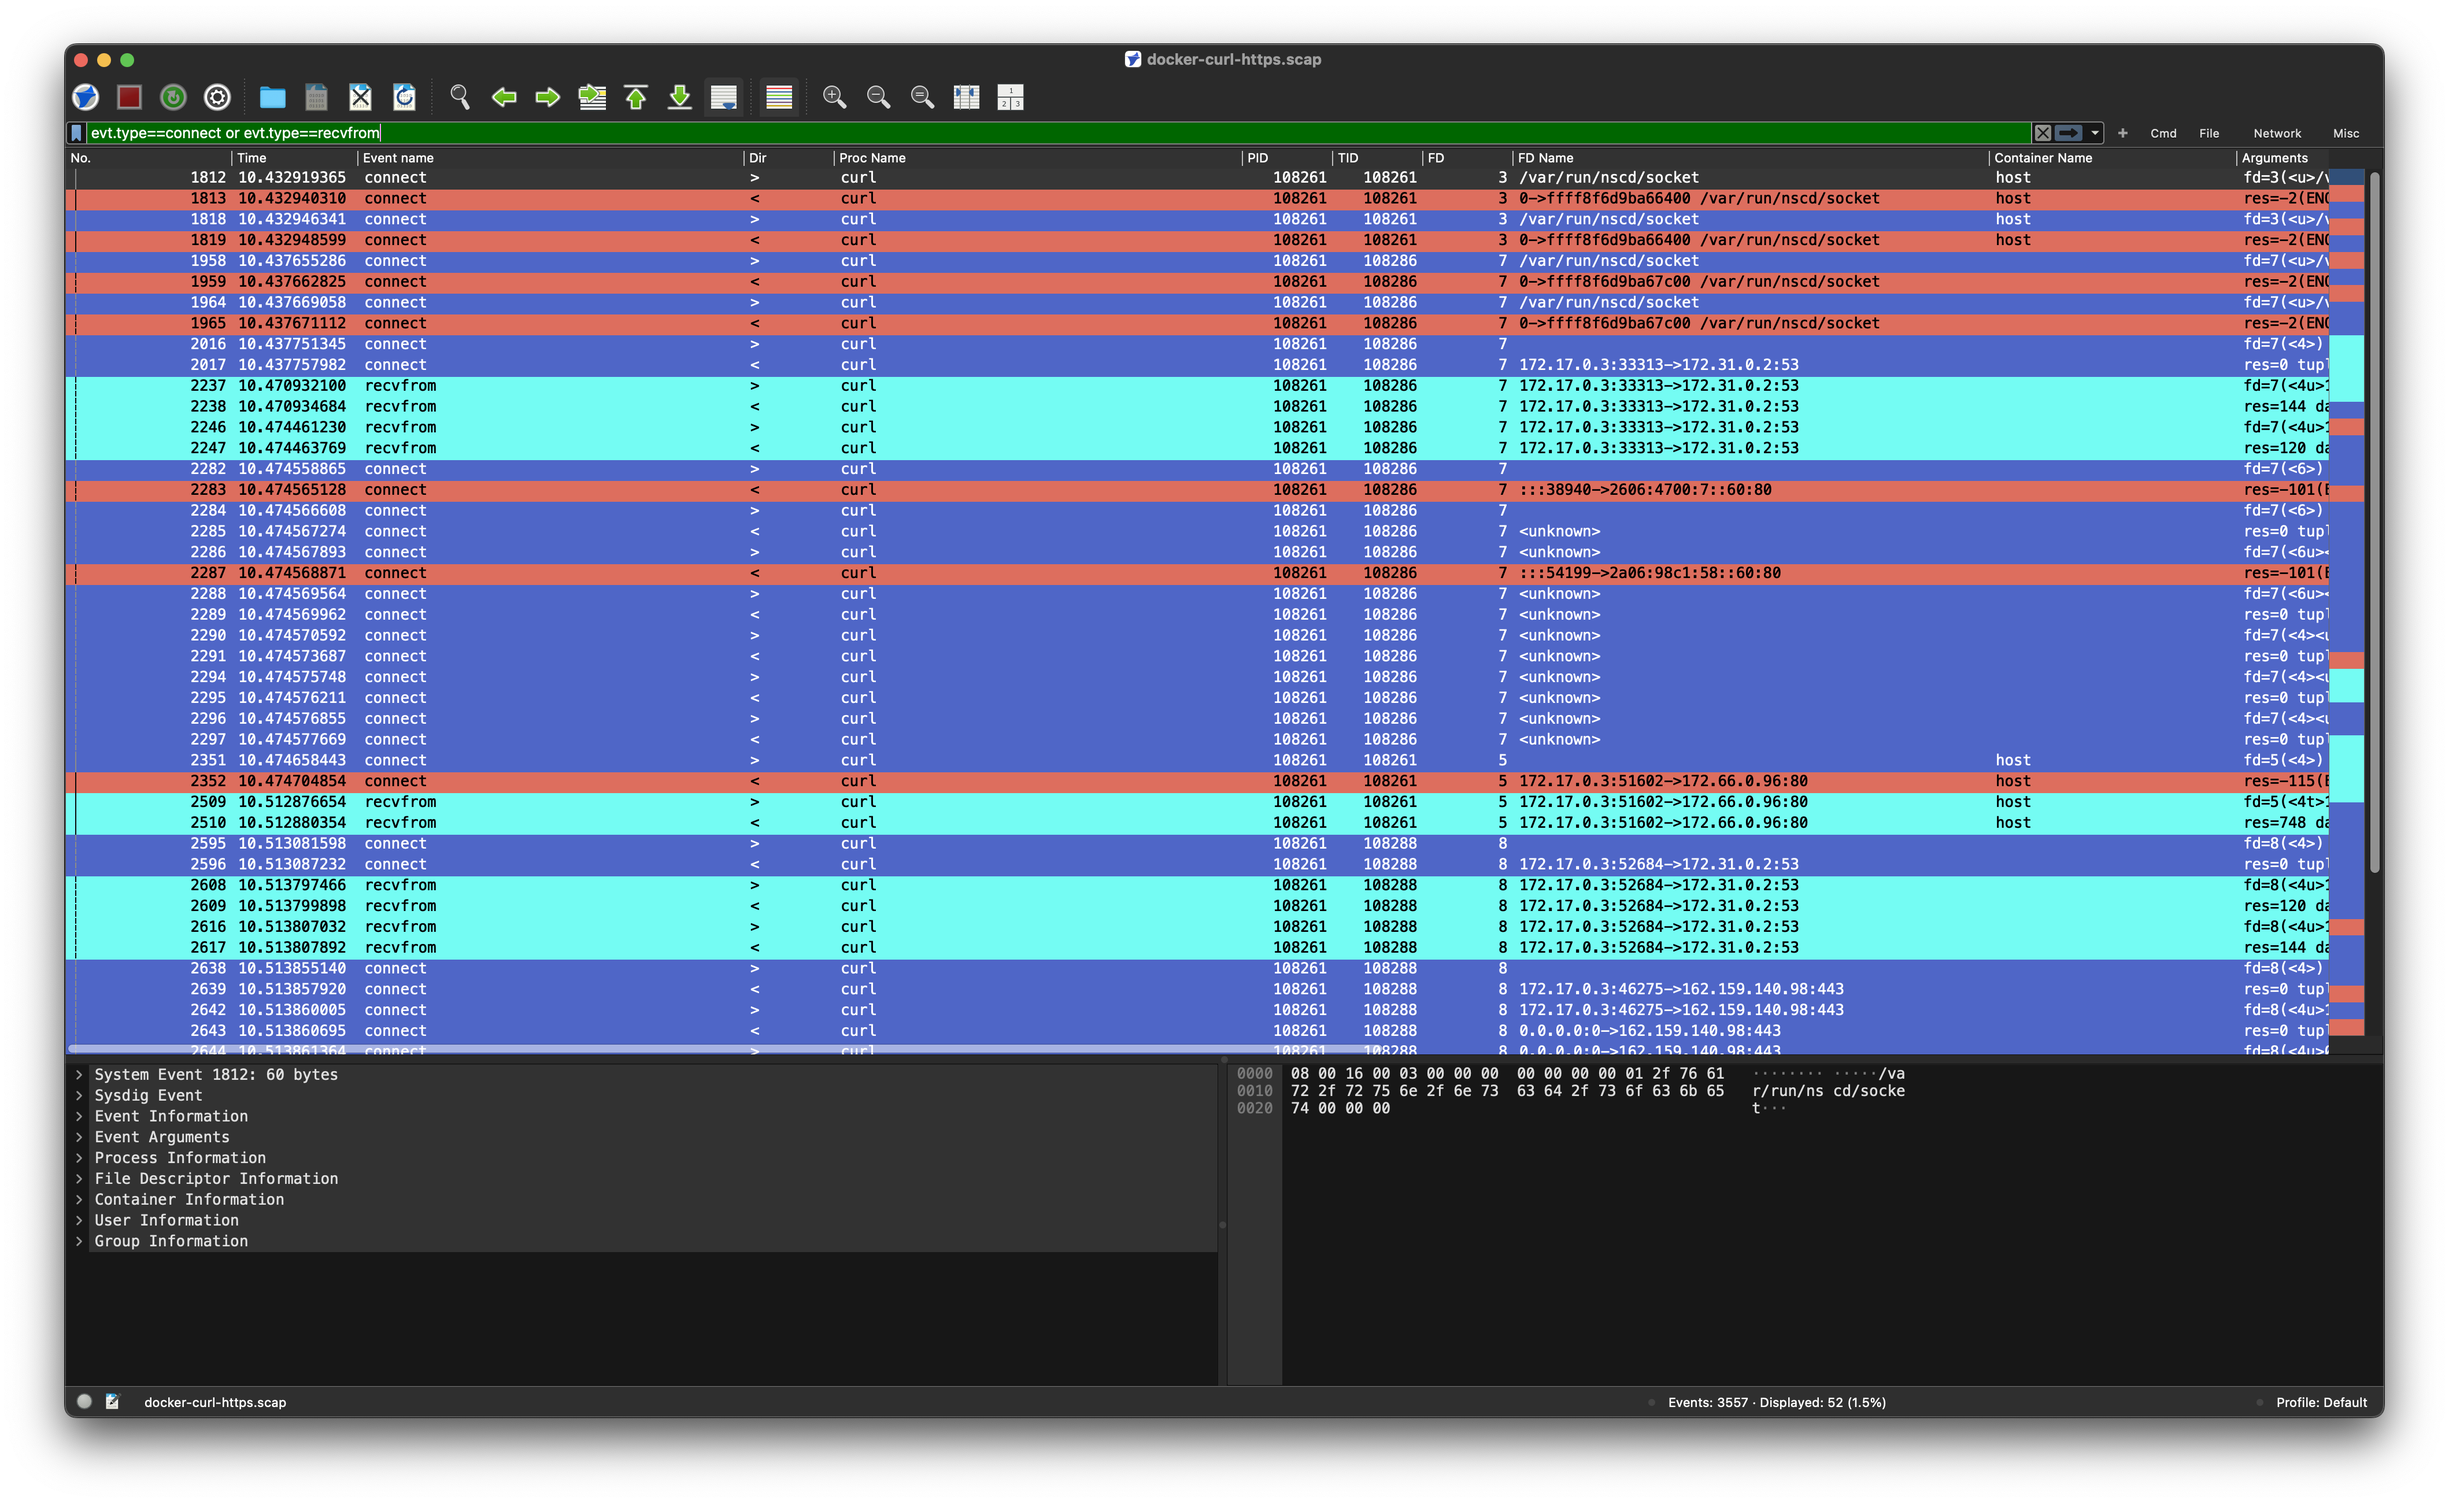
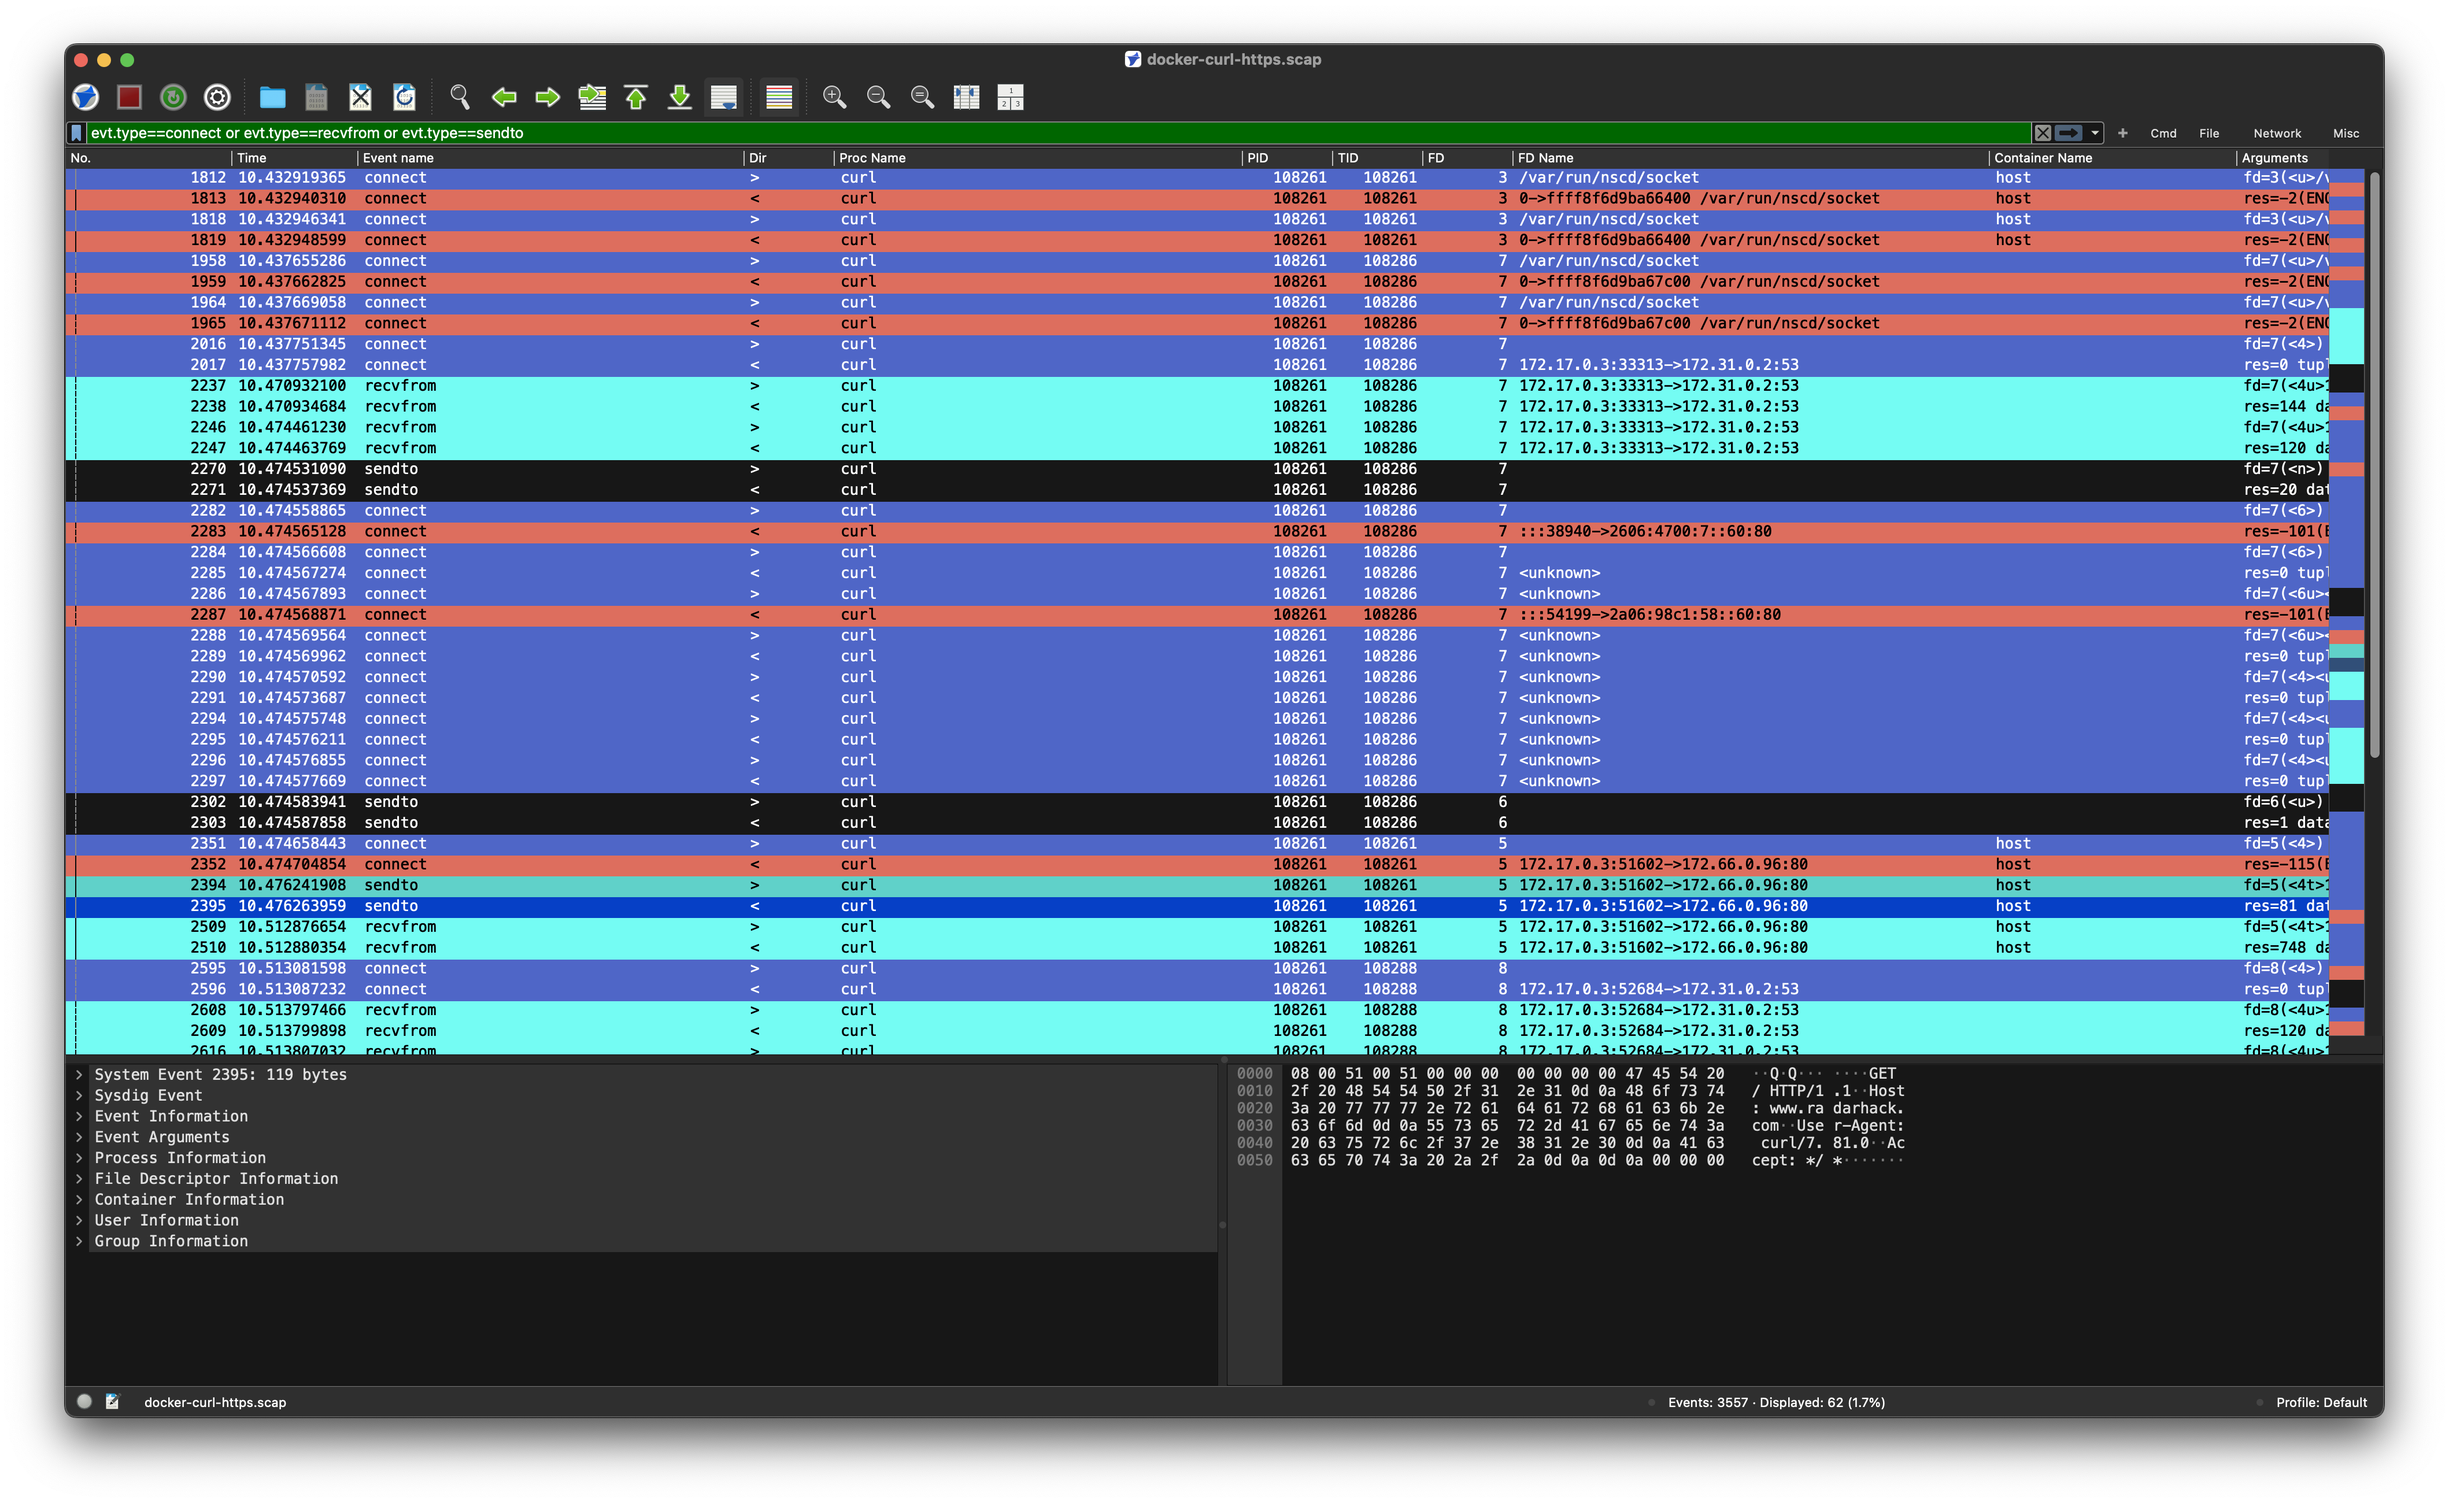
adding images

Changed region(s): [[0.0, 0.0623, 0.9972, 0.7788]]

diff --git a/README.md b/README.md
@@ -51,8 +51,8 @@ To transfer the trace files to your local machine, use the following `scp` comma
 scp ubuntu@remote-host:~/docker-curl-https.scap ./docker-curl-https.scap
 scp ubuntu@remote-host:~/docker-curl-https.txt ./docker-curl-https.txt
 ```
-These commands will securely copy the trace files from the remote host to your local machine.
-If you want to follow along with the examples in the next section, you can find the trace in this repo in the traces directory.
+These commands will securely copy the trace files from the remote host to your local machine.<br>
+If you want to follow along with the examples in the next section, you can find the trace in this repo in the `traces` directory.
 
 ## Stratoshark
 The `docker-curl-https.scap` can be opened with Stratoshark, available for Mac and Windows.<br> 
@@ -68,11 +68,25 @@ From the UI open `docker-curl-https.scap`
 As you can see there are a lot of entries, so let's filter in popular `wireshark-style` and nail it down to what we are looking for.
 Apply following filter
 ```
-evt.type==connect or evt.type==recvfrom
+evt.type==connect or evt.type==recvfrom or evt.type==sendto
 ```
 ![filtered trace](./images/filtered.png "Filtered traces")
+
+If we look carefully in `line 2395` we find the request being send.
+```
+2395 21:07:53.946614329 0 curl (104155) < sendto res=81 data=GET / HTTP/1.1..Host: www.radarhack.com..User-Agent: curl/7.81.0..Accept: */*...
+```
+In `line 2510` we can find the response
+```
+2510 21:07:53.972731198 0 curl (104155) < recvfrom res=748 data=HTTP/1.1 301 Moved Permanently..Date: Wed, 23 Jan 2025 10:06 GMT..Content-...
+```
+There is an easier way to track this all down. Select `line 2510`, click right and select Follow -> File Descriptor Stream and Stratoshark will do the hard work for you.
 ![follow_stream_1 trace](./images/follow_stream_1.png "Filtered traces")
+The filter is updated accordingly.
 ![follow_stream_2 trace](./images/follow_stream_2.png "Filtered traces")
+
+
+
 
 For HTTPS, this is slightly different
 ```
